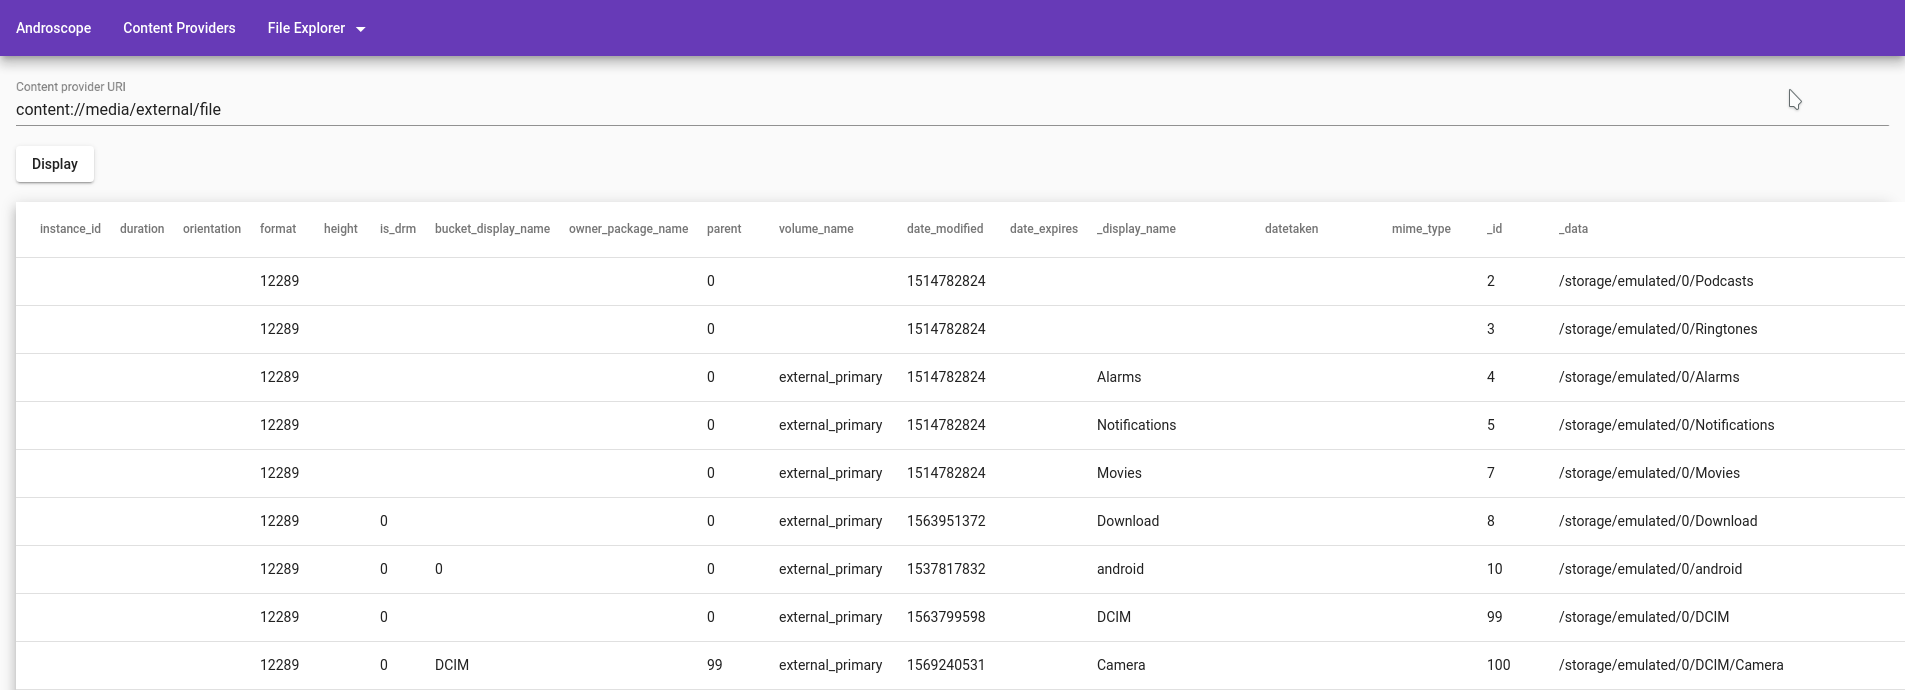
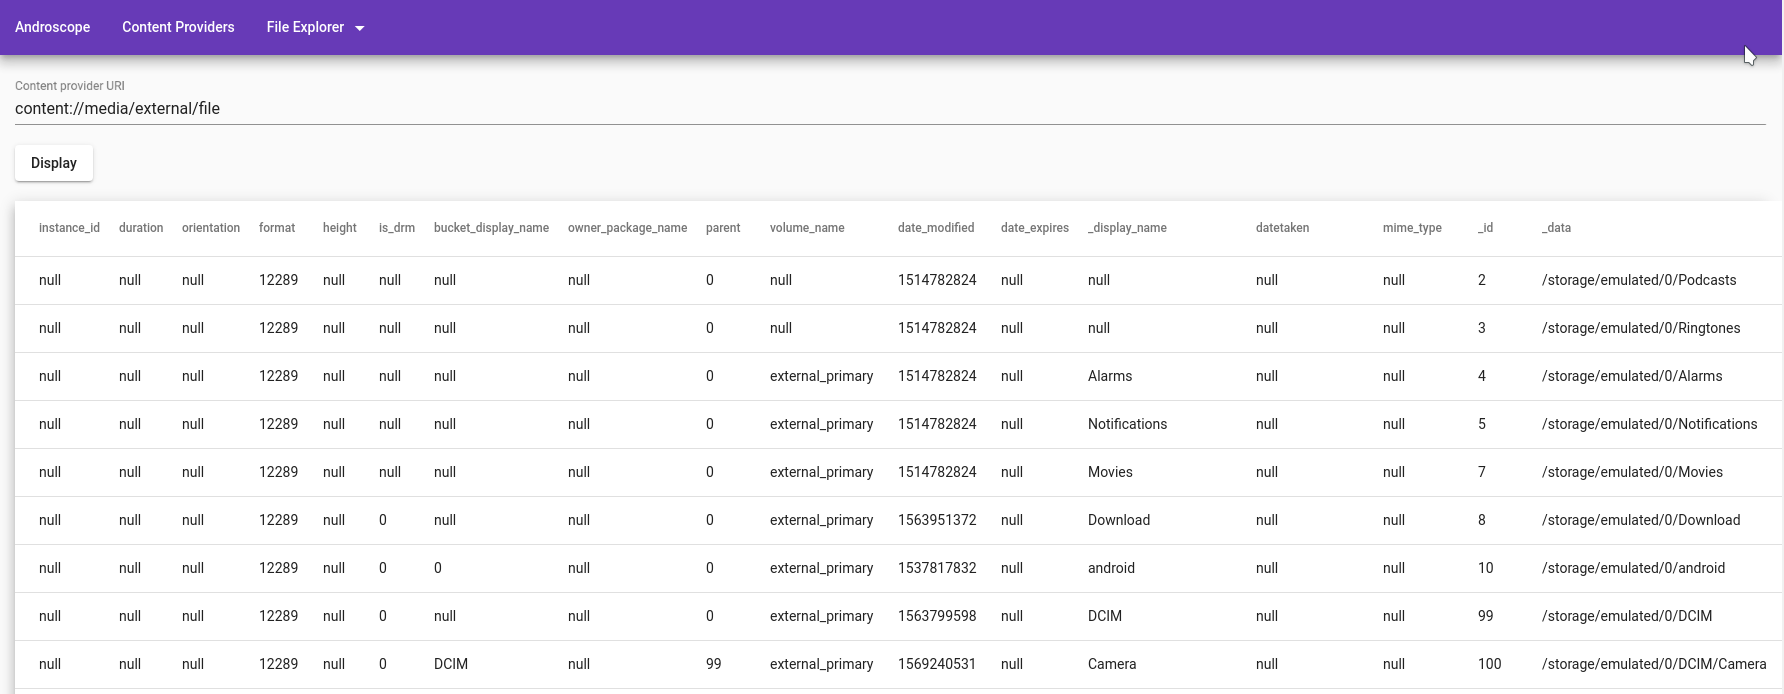
Support BLOB data

diff --git a/lib-androscope/src/main/java/nl/ngti/androscope/responses/provider/ProviderResponse.kt b/lib-androscope/src/main/java/nl/ngti/androscope/responses/provider/ProviderResponse.kt
@@ -14,7 +14,9 @@ class ProviderResponse(
     private val cursorCache = ResponseDataCache(
             paramsSupplier = ::CursorParams,
             dataSupplier = {
-                queryCursor(it.uri, it.sortOrder)
+                queryCursor(it.uri, it.sortOrder)?.let { cursor ->
+                    ResponseCursor(cursor)
+                }
             },
             canUseData = {
                 it != null && !it.isClosed
@@ -61,7 +63,7 @@ class ProviderResponse(
                 val row = ArrayList<String>(columnCount)
 
                 for (i in 0 until columnCount) {
-                    row.add(cursor.getString(i))
+                    row.add(cursor[i])
                 }
 
                 add(row)

diff --git a/lib-androscope/src/main/java/nl/ngti/androscope/responses/provider/ResponseCursor.kt b/lib-androscope/src/main/java/nl/ngti/androscope/responses/provider/ResponseCursor.kt
@@ -1,0 +1,16 @@
+package nl.ngti.androscope.responses.provider
+
+import android.database.Cursor
+
+class ResponseCursor(
+        private val sourceCursor: Cursor
+) : Cursor by sourceCursor {
+
+    operator fun get(columnIndex: Int): String {
+        return when (getType(columnIndex)) {
+            Cursor.FIELD_TYPE_NULL -> "null"
+            Cursor.FIELD_TYPE_BLOB -> "[BLOB]"
+            else -> getString(columnIndex)
+        }
+    }
+}

diff --git a/README.md b/README.md
@@ -13,6 +13,7 @@ Androscope is a debug tool that allows you to look into internals of your Androi
 - [Auto-start Androscope](#auto-start-androscope)
 - [Using Androscope in multiple applications](#using-androscope-in-multiple-applications)
 - [Configure your database](#configure-your-database)
+- [View BLOB database data](#view-blob-database-data)
 
 [Contribute](#contribute)
 
@@ -122,6 +123,15 @@ This feature is also convenient if you want to make your database be displayed a
 <meta-data
     android:name="nl.ngti.androscope.DATABASE_NAME"
     android:value="my_database.db" />
+```
+
+### View BLOB database data
+[BLOB](https://www.sqlite.org/datatype3.html) values are not displayed by Androscope, because the data contained in blob might be too large or might be binary - only database creator knows that. If you still want to view your BLOB data in Androscope, you can see it using **Custom query** feature:
+
+```sql
+SELECT 
+    CAST(my_blob_column AS TEXT)
+FROM my_table_containing_blobs
 ```
 
 ## Contribute
